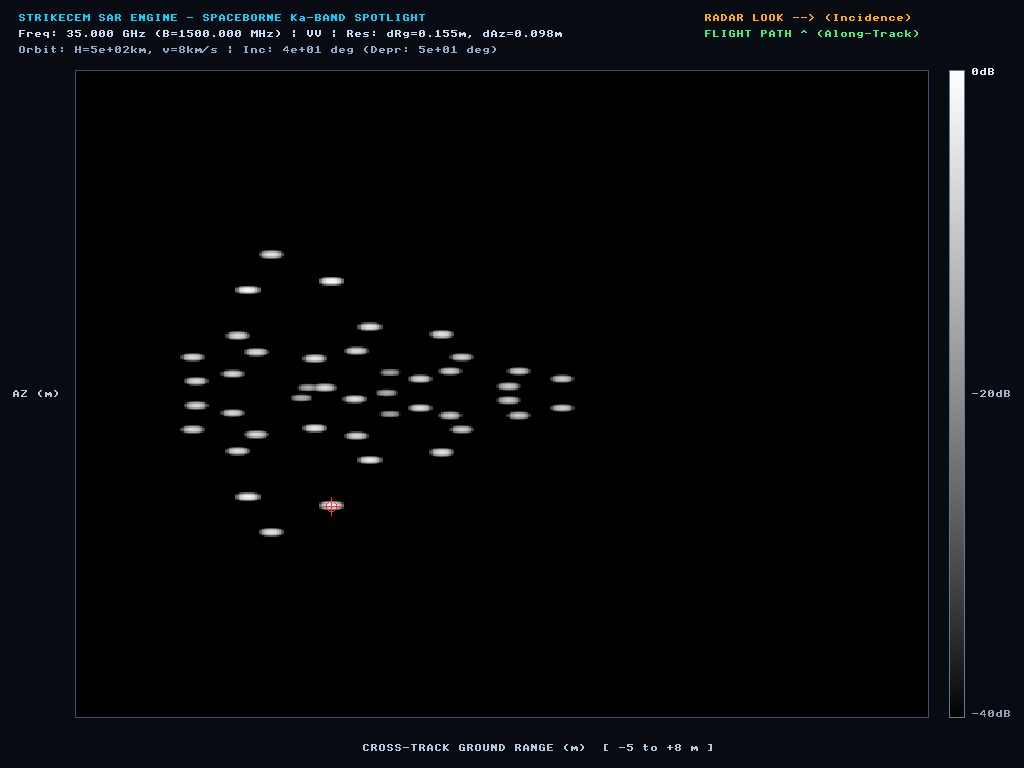
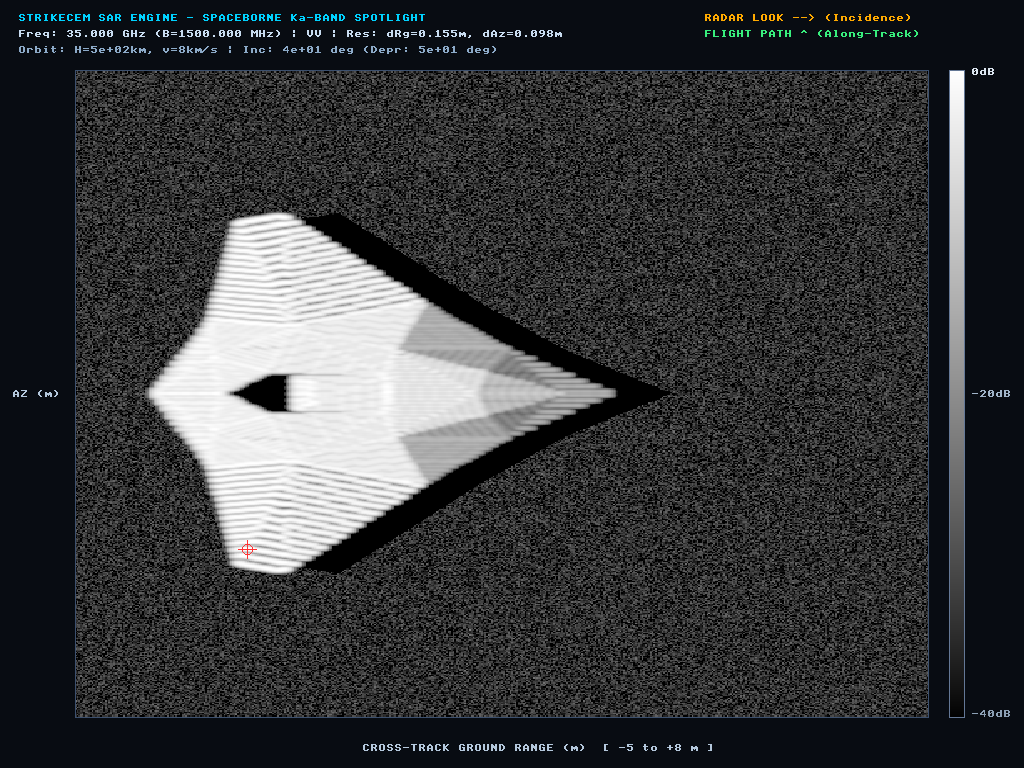
feat(sar): enhance facet surface subdivision, diffuse airframe skin backscatter, and dynamic range balance

diff --git a/src/strikecem/analysis/SarImaging.cpp b/src/strikecem/analysis/SarImaging.cpp
@@ -230,9 +230,11 @@ SarImage SarProcessor::compute(const NormalizedMesh& mesh,
     // 2. Linear intensity accumulator [nx][ny]
     std::vector<std::vector<double>> lin_intensity(nx, std::vector<double>(ny, 0.0));
 
-    // Base ground clutter power per pixel
-    const double pixel_area = dx * dy;
-    double base_clutter_lin = std::pow(10.0, config.ground_clutter_sigma0_db / 10.0) * pixel_area;
+    // Base ground clutter power per resolution cell
+    const double res_x = img.ground_range_resolution_m;
+    const double res_y = img.azimuth_resolution_m;
+    const double cell_area = res_x * res_y;
+    double base_clutter_lin = std::pow(10.0, config.ground_clutter_sigma0_db / 10.0) * cell_area;
     if (config.ground_type == SarGroundType::None) {
         base_clutter_lin = 1e-12; // Free-space dark background
     }
@@ -249,8 +251,8 @@ SarImage SarProcessor::compute(const NormalizedMesh& mesh,
 
             if (shadow_mask[i][j]) {
                 shadow_pixel_count++;
-                // Deep shadow: 30 dB suppression below clutter floor
-                lin_intensity[i][j] = clutter * 0.001;
+                // Deep shadow: 35 dB suppression below clutter floor
+                lin_intensity[i][j] = clutter * 0.0003;
             } else {
                 lin_intensity[i][j] = clutter;
             }
@@ -259,10 +261,9 @@ SarImage SarProcessor::compute(const NormalizedMesh& mesh,
     img.shadow_area_fraction = static_cast<double>(shadow_pixel_count) / static_cast<double>(nx * ny);
 
     // 3. Target Electrodynamics Backscatter Injection
-    // Physical Optics + PTD + Dihedral Ground-Bounce
+    // Physical Optics + Diffuse Skin + Dihedral Ground-Bounce
     double max_lin = 1e-9;
-    const double res_x = img.ground_range_resolution_m;
-    const double res_y = img.azimuth_resolution_m;
+    const double sample_step = std::max(0.10, std::min(res_x, res_y) * 0.7);
 
     for (size_t t = 0; t < mesh.triangles.size(); ++t) {
         const auto& tri = mesh.triangles[t];
@@ -274,71 +275,106 @@ SarImage SarProcessor::compute(const NormalizedMesh& mesh,
 
         // Illuminated check
         double cos_i = -(n.x * k_hat.x + n.y * k_hat.y + n.z * k_hat.z);
-        if (cos_i <= 0.0) continue; // In shadow
+        if (cos_i <= 0.0) continue; // In self-shadow
 
-        geom::Vec3d center = (v0 + v1 + v2) * (1.0 / 3.0);
+        // Subdivide triangle to distribute scattering across physical surface
+        int subdiv = std::clamp(static_cast<int>(std::round(std::sqrt(2.0 * area / (sample_step * sample_step)))), 1, 16);
+        int num_samples = subdiv * (subdiv + 1) / 2;
+        double sub_area = area / static_cast<double>(num_samples);
 
-        // Slant-to-ground layover mapping:
-        // Elevated target points appear at ground range: x_apparent = x_center - (z_center - ground_z) * cot(incidence)
-        double cot_inc = std::cos(inc_rad) / std::sin(inc_rad);
-        double target_gx = center.x - (center.z - ground_z) * cot_inc;
-        double target_gy = center.y;
+        for (int p = 0; p < subdiv; ++p) {
+            for (int q = 0; q < subdiv - p; ++q) {
+                double u = (p + 1.0 / 3.0) / static_cast<double>(subdiv);
+                double v = (q + 1.0 / 3.0) / static_cast<double>(subdiv);
+                double w = 1.0 - u - v;
+                geom::Vec3d pt{
+                    u * v0.x + v * v1.x + w * v2.x,
+                    u * v0.y + v * v1.y + w * v2.y,
+                    u * v0.z + v * v1.z + w * v2.z
+                };
 
-        // Scattering intensity: PO area specular glint factor
-        double rcs_facet = (4.0 * M_PI / (lambda * lambda)) * (area * area) * (cos_i * cos_i);
-        // Realistic dynamic range limit for facet scatter
-        rcs_facet = std::min(rcs_facet, 1000.0 * area);
+                // Slant-to-ground layover mapping:
+                double cot_inc = std::cos(inc_rad) / std::sin(inc_rad);
+                double target_gx = pt.x - (pt.z - ground_z) * cot_inc;
+                double target_gy = pt.y;
 
-        // Ground-bounce dihedral multipath enhancement for lower vehicle structures
-        if (config.enable_ground_multipath && (center.z - ground_z) < (0.35 * vehicle_height)) {
-            rcs_facet *= 3.5; // Double-bounce dihedral corner boost
-        }
+                // Backscatter model: diffuse airframe skin + specular PO glint
+                double rcs_diff = 0.35 * sub_area * cos_i;
+                double specular_factor = std::pow(std::max(0.0, cos_i), 12.0);
+                double rcs_spec = (4.0 * M_PI / (lambda * lambda)) * (sub_area * sub_area) * specular_factor;
+                rcs_spec = std::min(rcs_spec, 10.0 * sub_area);
 
-        // Splat facet energy across Point Spread Function (PSF)
-        int center_i = static_cast<int>((target_gx - img.ground_range_min_m) / dx);
-        int center_j = static_cast<int>((target_gy - img.azimuth_min_m) / dy);
+                double rcs_sub = rcs_diff + rcs_spec;
 
-        int spread_i = std::max(1, static_cast<int>(std::ceil(res_x / dx)));
-        int spread_j = std::max(1, static_cast<int>(std::ceil(res_y / dy)));
+                // Ground-bounce dihedral multipath enhancement for lower vehicle structures
+                if (config.enable_ground_multipath && (pt.z - ground_z) < (0.35 * vehicle_height)) {
+                    rcs_sub *= 3.5;
+                }
 
-        for (int di = -spread_i; di <= spread_i; ++di) {
-            int ci = center_i + di;
-            if (ci < 0 || ci >= static_cast<int>(nx)) continue;
-            double dist_x = di * dx / res_x;
-            double sinc_x = (std::abs(dist_x) < 1e-4) ? 1.0 : (std::sin(M_PI * dist_x) / (M_PI * dist_x));
+                // Splat sub-element energy across Point Spread Function (PSF)
+                int center_i = static_cast<int>((target_gx - img.ground_range_min_m) / dx);
+                int center_j = static_cast<int>((target_gy - img.azimuth_min_m) / dy);
 
-            for (int dj = -spread_j; dj <= spread_j; ++dj) {
-                int cj = center_j + dj;
-                if (cj < 0 || cj >= static_cast<int>(ny)) continue;
-                double dist_y = dj * dy / res_y;
-                double sinc_y = (std::abs(dist_y) < 1e-4) ? 1.0 : (std::sin(M_PI * dist_y) / (M_PI * dist_y));
+                int spread_i = std::max(1, static_cast<int>(std::ceil(res_x / dx)));
+                int spread_j = std::max(1, static_cast<int>(std::ceil(res_y / dy)));
 
-                double psf = (sinc_x * sinc_x) * (sinc_y * sinc_y);
-                lin_intensity[ci][cj] += rcs_facet * psf;
+                for (int di = -spread_i; di <= spread_i; ++di) {
+                    int ci = center_i + di;
+                    if (ci < 0 || ci >= static_cast<int>(nx)) continue;
+                    double dist_x = di * dx / res_x;
+                    double sinc_x = (std::abs(dist_x) < 1e-4) ? 1.0 : (std::sin(M_PI * dist_x) / (M_PI * dist_x));
+
+                    for (int dj = -spread_j; dj <= spread_j; ++dj) {
+                        int cj = center_j + dj;
+                        if (cj < 0 || cj >= static_cast<int>(ny)) continue;
+                        double dist_y = dj * dy / res_y;
+                        double sinc_y = (std::abs(dist_y) < 1e-4) ? 1.0 : (std::sin(M_PI * dist_y) / (M_PI * dist_y));
+
+                        double psf = (sinc_x * sinc_x) * (sinc_y * sinc_y);
+                        lin_intensity[ci][cj] += rcs_sub * psf;
+                    }
+                }
             }
         }
     }
 
     // 4. Find Peak and Convert to Decibels
+    std::vector<double> non_zero_vals;
+    non_zero_vals.reserve(nx * ny);
+
     for (size_t i = 0; i < nx; ++i) {
         for (size_t j = 0; j < ny; ++j) {
-            if (lin_intensity[i][j] > max_lin) {
-                max_lin = lin_intensity[i][j];
+            double v = lin_intensity[i][j];
+            if (v > max_lin) {
+                max_lin = v;
                 img.peak_ground_range_m = img.ground_range_axis_m[i];
                 img.peak_azimuth_m = img.azimuth_axis_m[j];
+            }
+            if (v > 1e-12) {
+                non_zero_vals.push_back(v);
             }
         }
     }
     img.peak_rcs_dbsm = (max_lin > 1e-30) ? 10.0 * std::log10(max_lin) : -999.0;
 
+    // Use 99.8th percentile for display dynamic range normalization so specular spikes
+    // do not crush background clutter and diffuse body scattering into pitch black.
+    double display_ref = max_lin;
+    if (non_zero_vals.size() > 100) {
+        size_t p_idx = static_cast<size_t>(0.998 * non_zero_vals.size());
+        p_idx = std::clamp(p_idx, size_t{0}, non_zero_vals.size() - 1);
+        std::nth_element(non_zero_vals.begin(), non_zero_vals.begin() + p_idx, non_zero_vals.end());
+        display_ref = std::max(1e-12, non_zero_vals[p_idx]);
+    }
+
     img.intensity_db.resize(nx, std::vector<double>(ny, -config.dynamic_range_db));
-    const double inv_max = 1.0 / std::max(1e-30, max_lin);
+    const double inv_ref = 1.0 / display_ref;
 
     for (size_t i = 0; i < nx; ++i) {
         for (size_t j = 0; j < ny; ++j) {
-            double ratio = lin_intensity[i][j] * inv_max;
+            double ratio = lin_intensity[i][j] * inv_ref;
             double val_db = (ratio > 1e-15) ? 10.0 * std::log10(ratio) : -config.dynamic_range_db;
-            img.intensity_db[i][j] = std::max(-config.dynamic_range_db, val_db);
+            img.intensity_db[i][j] = std::clamp(val_db, -config.dynamic_range_db, 0.0);
         }
     }
 
